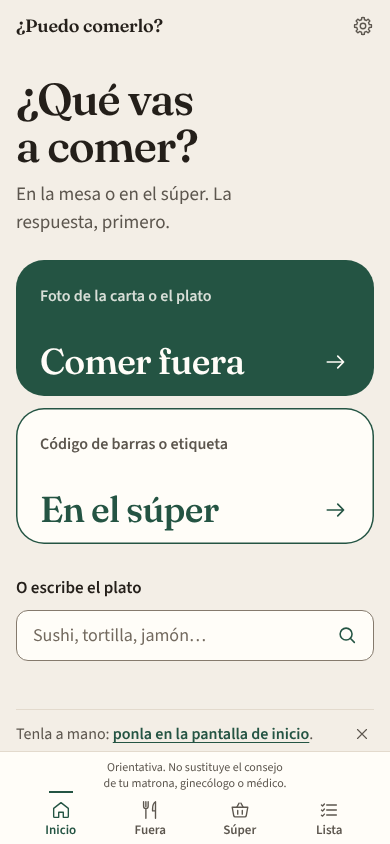
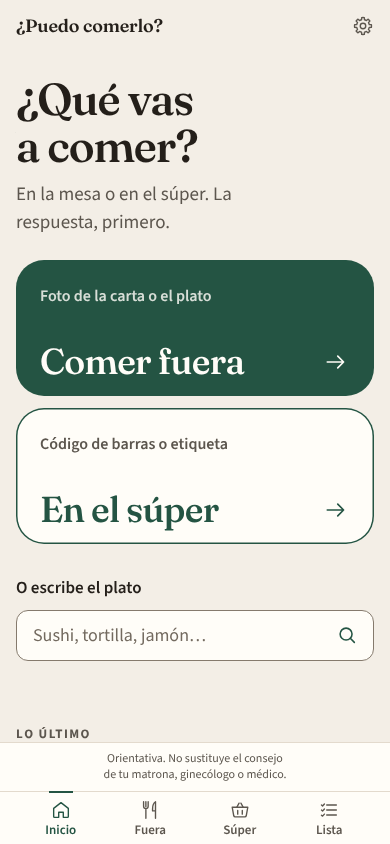
Guía de uso: sección «Los colores» y 23 capturas con el diseño de pantalla entera
Claude-Session: https://claude.ai/code/session_01LGfS7LtDgv3jjsjjTi3rbZ

Changed region(s): [[0.0308, 0.8626, 0.8, 0.955], [0.8923, 0.8626, 0.9538, 0.8934]]

diff --git a/puedo-comerlo/docs/GUIA-DE-USO.md b/puedo-comerlo/docs/GUIA-DE-USO.md
@@ -7,7 +7,7 @@ Para quien la va a usar y para quien la va a probar. Se lee en el móvil en unos
 ## Índice
 
 1. [Qué es y qué no es](#1-qué-es-y-qué-no-es)
-2. [Qué significa cada respuesta](#2-qué-significa-cada-respuesta)
+2. [Los colores](#2-los-colores)
 3. [El primer arranque](#3-el-primer-arranque)
 4. [Cómo trata la app los embutidos y los fiambres](#4-cómo-trata-la-app-los-embutidos-y-los-fiambres)
 5. [Comer fuera](#5-comer-fuera)
@@ -37,29 +37,43 @@ durante el embarazo. Primero la respuesta; el motivo, solo si lo abres.
 
 ---
 
-## 2. Qué significa cada respuesta
+## 2. Los colores
 
-Lo primero que ves es una palabra grande, con su color. Hay cuatro:
+Cuando la app te contesta sobre **un plato o un producto**, se pinta **la pantalla entera** del color de la
+respuesta, también la barra de arriba y la de abajo, y la palabra aparece grande. Hay cuatro:
 
-| Respuesta | Color | Qué quiere decir |
+| Respuesta | Color de la pantalla | Qué quiere decir |
 |---|---|---|
 | **Sí** | verde salvia | Se puede tomar, con las precauciones normales. |
-| **Con cuidado** | arcilla (teja) | Depende de cómo esté hecho. La respuesta dice qué preguntar o mirar. |
-| **Mejor no** | vino (granate) | Mejor no tomarlo en el embarazo. Si hay una alternativa, la propone. |
-| **No estoy segura** | arena | La app no lo tiene claro y no lo da por seguro. Pregunta qué lleva. |
+| **Con cuidado** | naranja terroso | Depende de cómo esté hecho. La respuesta dice qué preguntar o mirar. |
+| **Mejor no** | rojo vino | Mejor no tomarlo en el embarazo. Si hay una alternativa, la propone. |
+| **No estoy segura** | ocre | La app no lo tiene claro y no lo da por seguro. Pregunta qué lleva. |
 
-En las listas (la carta, tu lista, el historial) cada plato es una fila con una **marca de color a la
-izquierda** y la palabra pequeña encima del nombre. No hay tarjetas: solo filas.
+![Mejor no: pantalla de color vino para «sushi»](capturas/06-respuesta-mejor-no.png)
 
-**Gana el peor.** Si un plato junta varias cosas, se queda con la respuesta más prudente:
-«Mejor no» manda sobre «Con cuidado», que manda sobre «No estoy segura», que manda sobre «Sí».
-Por ejemplo, una ensalada con salmón ahumado sale «Mejor no» por el ahumado, aunque la ensalada sola
-fuera «Con cuidado».
+![Sí: pantalla verde para «lubina a la plancha»](capturas/07-respuesta-si.png)
 
-**Ver más.** Primero ves la palabra, el nombre y una frase. Si tocas **Ver más** se despliega el resto: el
-motivo, la pregunta para el camarero o lo que hay que mirar en la etiqueta, una alternativa y la fuente.
+![Con cuidado: pantalla naranja para «tortilla»](capturas/08-respuesta-con-cuidado.png)
 
-![Ficha de la tortilla de patata con «Ver más» abierto: motivo, qué preguntar, alternativa y fuente](capturas/08-ficha-ver-mas.png)
+![No estoy segura: pantalla ocre con signos de interrogación para un texto que la app no entiende](capturas/09-respuesta-no-estoy-segura.png)
+
+- **No te fíes solo del color.** Siempre hay una **palabra** grande («Sí», «Con cuidado», «Mejor no», «No
+  estoy segura») y una frase. «Con cuidado» y «No estoy segura» llevan además signos de interrogación de
+  fondo (más grandes y numerosos en «No estoy segura»), para distinguirlos de un vistazo, incluso si no
+  distingues bien los colores.
+- **Gana el peor.** Si un plato junta varias cosas, se queda con la respuesta más prudente:
+  «Mejor no» manda sobre «Con cuidado», que manda sobre «No estoy segura», que manda sobre «Sí».
+  Por ejemplo, una ensalada con salmón ahumado sale «Mejor no» por el ahumado, aunque la ensalada sola
+  fuera «Con cuidado».
+- **Las listas no se pintan enteras.** La carta, tu lista, el historial y «Lo último» van sobre fondo crema:
+  cada plato es una fila con una **banda suave del color** de su respuesta, una marca de color en el borde
+  y la palabra pequeña encima del nombre. Solo las respuestas sueltas pintan toda la pantalla.
+
+**Ver más.** Primero ves la palabra, el nombre y una frase. Si tocas **Ver más** se despliega una hoja con el
+resto: el motivo, la pregunta para el camarero o lo que hay que mirar en la etiqueta, una alternativa y la
+fuente.
+
+![Ficha de la tortilla de patata con «Ver más» abierto: motivo, qué preguntar, alternativa y fuente](capturas/10-ficha-ver-mas.png)
 
 ---
 
@@ -69,9 +83,10 @@ La primera vez que la abres te hace tres pantallas cortas, una sola vez (cuatro 
 Lo que contestes se puede cambiar después en Ajustes. Arriba verás siempre «Paso 1 de 4» y una barra de
 progreso; con **Atrás** vuelves al paso anterior.
 
-**Paso 1. Portada.** Explica qué es la app y que es orientativa. Toca **Seguir**.
+**Paso 1. Portada.** Explica qué es la app, con una mesa de platos vista desde arriba (en una esquina, una servilleta con una
+silueta bordada de embarazada). Toca **Seguir**; debajo del botón está el aviso de que es orientativa.
 
-![Portada del arranque: título, aviso de que es orientativa y el botón Seguir](capturas/01-arranque-portada.png)
+![Portada del arranque: título, la mesa con doce platos y el botón Seguir](capturas/01-arranque-portada.png)
 
 **Paso 2. Alergias e intolerancias.** Opcional: leche, huevo, gluten, frutos secos, pescado, marisco, soja y
 sésamo. Debajo hay un campo corto (hasta 200 letras) para **otra cosa que no quieras comer**, por ejemplo
@@ -80,7 +95,7 @@ sésamo. Debajo hay un campo corto (hasta 200 letras) para **otra cosa que no qu
 ![Paso 2: alergias e intolerancias, con frutos secos marcado, y el campo «Otra cosa que no quieras comer»](capturas/02-arranque-alergias.png)
 
 **Paso 3. Dietas y restricciones.** Opcional y se pueden marcar varias: vegetariana, vegana, sin cerdo, sin
-lactosa (intolerancia). **No cambia el color**; solo añade una nota en la respuesta, como «No encaja con
+lactosa (intolerancia). **No cambia la respuesta ni su color**; solo añade una nota en la respuesta, como «No encaja con
 vegana» o «Lleva cerdo».
 
 ![Paso 3: dietas y restricciones](capturas/03-arranque-dietas.png)
@@ -92,8 +107,9 @@ semáforo lo calculan reglas fijas. Toca **Empezar**.
 ![Paso 4: tu privacidad y el botón Empezar](capturas/04-arranque-privacidad.png)
 
 Llegas a **Inicio**: «¿Qué vas a comer?». Hay dos accesos grandes, **Comer fuera** y **En el súper**, y
-debajo un campo para escribir el plato directamente. Un aviso discreto te ofrece ponerla en la pantalla de
-inicio del móvil; lo puedes cerrar con la «x».
+debajo un campo para escribir el plato directamente. Más abajo, «Lo último» (vacío al principio, con un plato
+dibujado) y un aviso discreto que te ofrece ponerla en la pantalla de inicio del móvil; lo puedes cerrar con
+la «x».
 
 ![Inicio: «¿Qué vas a comer?», con Comer fuera, En el súper y el campo para escribir el plato](capturas/05-inicio.png)
 
@@ -126,7 +142,7 @@ Si tu matrona o tu médico te han dicho algo distinto para tu caso, haz lo que e
 
 En **Fuera** (o «Comer fuera» desde Inicio) tienes tres maneras de preguntar:
 
-![Pantalla Comer fuera: Hacer una foto, Elegir una foto, Buscar un plato y atajos](capturas/09-comer-fuera.png)
+![Pantalla Comer fuera: Hacer una foto, Elegir una foto, Buscar un plato y atajos](capturas/11-comer-fuera.png)
 
 **Hacer una foto.** Abre la cámara de atrás. Encuadra la carta, con buena luz, y toca **Hacer la foto**.
 Verás la foto congelada: si se lee bien, toca **Usar esta foto**; si no, **Repetir**. La primera vez, el
@@ -136,24 +152,28 @@ ofrece elegir una foto de la galería.
 **Elegir una foto.** Para una foto que ya tengas en el móvil (por ejemplo, la carta que te han mandado
 por WhatsApp).
 
-**Quién lee la foto.** Cuando está activa la lectura con Claude (el modelo Sonnet 5.5), la foto se lee con
-él: es lo más fino. Si no está activa, o se ha pasado el límite de fotos, la foto se lee en el propio móvil.
-Es más lenta (unos segundos más) y menos fina, y la app te lo avisa con «He leído la carta de forma
-aproximada».
+**Quién lee la foto.** La lee Claude (el modelo Sonnet 5.5): tarda unos 4 segundos y es lo más fino. Solo si
+no puede (por ejemplo, si te has pasado del límite de fotos o falla la conexión con él), la foto se lee en
+el propio móvil. Entonces tarda unos segundos más, es menos fina y la app te lo avisa con «He leído la
+carta de forma aproximada» (más abajo).
 
-Mientras lee, verás la foto y un mensaje:
+Mientras lee, verás la foto y un plato con tenedor y cuchillo que gira, con un mensaje («Leyendo la carta…»):
 
-![Leyendo la carta: la foto y el mensaje de progreso](capturas/10-carta-leyendo.png)
+![Leyendo la carta: la foto, el plato que gira y el mensaje de progreso](capturas/12-carta-leyendo.png)
 
 Después sale **«La carta»**: cuántos platos ha leído (hasta 12), un resumen por colores y una fila por plato.
 Toca **Ver más** en el que te interese. Abajo del todo, **Hacer otra foto**.
 
-![Resultado de la carta: «12 platos leídos», el resumen por colores, el aviso de lectura aproximada y las primeras filas](capturas/11-carta-resultado.png)
+![Resultado de la carta: «12 platos leídos», el resumen por colores y las primeras filas con su banda de color](capturas/13-carta-resultado.png)
 
-![Más platos de la misma carta: tortilla, lubina, sushi y entrecot poco hecho](capturas/11b-carta-resultado-mas.png)
+![Más platos de la misma carta: tortilla, lubina, sushi y entrecot poco hecho](capturas/13b-carta-resultado-mas.png)
 
-**El aviso «He leído la carta de forma aproximada. Revisa los nombres.»** Sale cuando la foto se ha leído en
-el propio móvil. En ese caso:
+*Estas capturas se hicieron sin la lectura de Claude, con el lector del propio móvil: por eso salen el aviso
+de lectura aproximada y varios «No estoy segura». En tu móvil, con Claude, la lectura sale más limpia: sin
+aviso y con los nombres de los platos mejor leídos.*
+
+**El aviso «He leído la carta de forma aproximada. Revisa los nombres.»** Solo sale cuando la foto se ha
+leído en el propio móvil (no cuando la lee Claude). En ese caso:
 
 - Revisa que los nombres de los platos estén bien escritos.
 - Ningún plato sale «Sí» a secas: lo que habría sido «Sí» baja a **«No estoy segura»**, con la frase
@@ -166,17 +186,13 @@ el propio móvil. En ese caso:
 el plato.» Prueba otra foto más cerca y con más luz, o escríbelo.
 
 **Buscar un plato.** Con **Buscar un plato**, o escribiendo en Inicio en «O escribe el plato», sale una
-pantalla con el campo y **solo la respuesta**: la palabra grande, el nombre, una frase, **Añadir a la
-lista** y **Ver más**. Escribe el plato como lo dirías: «sushi», «tortilla», «pizza de jamón york»,
-«lentejas con chorizo»… No hace falta poner tildes. La respuesta se va actualizando mientras escribes.
+pantalla con el campo y **solo la respuesta**, con la pantalla del color de la respuesta: la palabra grande, el nombre, una frase,
+**Añadir a la lista** y **Ver más**. Escribe el plato como lo dirías: «sushi», «tortilla», «pizza de jamón york»,
+«lentejas con chorizo»… No hace falta poner tildes. La respuesta (y el color) se van actualizando mientras escribes.
 Cuando la respuesta sale de un único alimento conocido, aparece también **Ver la ficha**.
 
 Si escribes algo que la app no entiende, sale **«No estoy segura»**, y en **Ver más** te dice qué
 preguntar (si lleva huevo crudo, embutido, queso sin pasteurizar, alcohol o pescado sin hacer).
-
-![Respuesta para «sushi»: Mejor no](capturas/06-respuesta-sushi.png)
-
-![Respuesta para «pizza de jamón york»: Sí, porque va horneada](capturas/07-respuesta-pizza-jamon-york.png)
 
 **Atajos.** Debajo de los botones hay una lista de texto con lo más habitual: jamón curado, pescado crudo,
 tortilla, ensalada César, ensaladilla, tarta de queso, gazpacho, mayonesa casera, queso blando y paella.
@@ -188,7 +204,7 @@ Tocas uno y se abre su ficha, con su respuesta. También salen en Buscar cuando 
 
 En **Súper** (o «En el súper» desde Inicio):
 
-![Pantalla En el súper: escanear, escribir el código, fotografiar la etiqueta y atajos](capturas/12-super.png)
+![Pantalla En el súper: escanear, escribir el código, fotografiar la etiqueta y atajos](capturas/14-super.png)
 
 **Escanear el código.** Abre la cámara; apunta al código de barras y lo lee solo. La app lo busca en
 **Open Food Facts**, una base de datos abierta de productos.
@@ -196,17 +212,17 @@ En **Súper** (o «En el súper» desde Inicio):
 **Escribir el código.** Si la cámara no lo coge, teclea los números de debajo de las barras (de 8 a 14
 cifras) y toca **Consultar**.
 
-Sale el producto con su código, la palabra grande, su nombre y la frase. En **Ver más** verás los
+Sale el producto, con la pantalla del color de su respuesta: el código, la palabra grande, su nombre y la frase. En **Ver más** verás los
 ingredientes que figuran en Open Food Facts.
 
-![Producto encontrado por código: Nutella, «Mejor no» porque se marcó frutos secos](capturas/13-super-producto.png)
+![Producto encontrado por código: Nutella, «Mejor no» porque se marcó frutos secos](capturas/15-super-producto.png)
 
-![El mismo producto con «Ver más» abierto: motivo e ingredientes leídos](capturas/13b-super-producto-ver-mas.png)
+![El mismo producto con «Ver más» abierto: motivo e ingredientes leídos](capturas/15b-super-producto-ver-mas.png)
 
 **Si no está en Open Food Facts**, te lo dice («No está en Open Food Facts. Haz una foto de los
 ingredientes.») y te ofrece **Fotografiar la etiqueta**. Haz la foto de la lista de ingredientes, no del
 frente del paquete. Si el producto no tiene código, usa **«¿Sin código? Fotografía la etiqueta»**. La foto
-de la etiqueta se lee igual que la de la carta (con Claude o, si no, en el propio móvil con el aviso de
+de la etiqueta se lee igual que la de la carta (con Claude o, si no puede, en el propio móvil con el aviso de
 lectura aproximada).
 
 **Cómo se aplican tus alergias:**
@@ -225,21 +241,26 @@ lectura aproximada).
 
 ## 7. Lista, favoritos e historial
 
-**Lista.** Para guardar lo que te interesa: en una respuesta, toca **Añadir a la lista**; en una fila de la
+**Lista.** Al principio está vacía, con un plato dibujado y «Todavía no hay nada…».
+
+![Lista vacía, con un plato de ensalada dibujado](capturas/16-lista-vacia.png)
+
+Para guardar lo que te interesa: en una respuesta, toca **Añadir a la lista**; en una fila de la
 carta, abre **Ver más** y toca **Añadir a la lista**. En la pestaña **Lista** lo verás todo con su color,
 recalculado con tus ajustes de ahora (si mañana marcas una alergia, la lista se pone al día). **Quitar** lo
 borra de la lista.
 
-![Lista con un producto y la tortilla de patata, y debajo Favoritos](capturas/14-lista.png)
+![Lista con un producto y la tortilla de patata, y debajo Favoritos](capturas/17-lista.png)
 
 **Favoritos.** En la ficha de un alimento (por ejemplo, al tocar un atajo), **Guardar en favoritos**.
 Aparecen debajo de la lista.
 
 **Historial.** Guarda tus últimas 40 consultas (búsquedas, fotos, códigos y fichas abiertas). En Inicio
 verás las tres últimas en **«Lo último»**; el historial completo, en **Ver el historial** (en Inicio o
-en Ajustes). Desde ahí puedes **Borrar el historial** sin tocar la lista ni los favoritos.
+en Ajustes). Desde ahí puedes **Borrar el historial** sin tocar la lista ni los favoritos. El historial vacío también
+lleva un plato dibujado.
 
-![Inicio con «Lo último»: las tres últimas consultas](capturas/15-inicio-lo-ultimo.png)
+![Inicio con «Lo último»: las tres últimas consultas](capturas/18-inicio-lo-ultimo.png)
 
 Todo esto se queda en tu móvil y sigue ahí aunque cierres o recargues la app.
 
@@ -249,7 +270,7 @@ Todo esto se queda en tu móvil y sigue ahí aunque cierres o recargues la app.
 
 Toca la **ruedecita** de arriba a la derecha.
 
-![Ajustes: alergias, otra cosa que no quieras comer y dietas](capturas/16-ajustes.png)
+![Ajustes: alergias, otra cosa que no quieras comer y dietas](capturas/19-ajustes.png)
 
 - **Cambiar tus decisiones.** Arriba está todo lo del arranque: alergias, otra cosa que no quieras comer y
   dietas y restricciones. Cambia lo que quieras y toca **Guardar**. Verás «Guardado. Las respuestas ya usan
@@ -261,7 +282,7 @@ Toca la **ruedecita** de arriba a la derecha.
   historial. Te pide confirmación (**Borrar todo**), no se puede deshacer y vuelves al arranque, como el
   primer día.
 
-![Final de Ajustes: Historial, En la pantalla de inicio y Tus datos](capturas/16b-ajustes-final.png)
+![Final de Ajustes: Historial, En la pantalla de inicio y Tus datos](capturas/19b-ajustes-final.png)
 
 ---
 
@@ -290,7 +311,7 @@ la app, en **Ajustes → Instalar en el móvil**, con tu tipo de móvil primero 
 
 En algunos Android la pantalla de Instalar muestra directamente un botón **Instalar**: basta con tocarlo.
 
-![Pantalla Instalar en el móvil en un Android: los pasos de Chrome y la etiqueta «Tu móvil»](capturas/17-instalar.png)
+![Pantalla Instalar en el móvil en un Android: los pasos de Chrome y la etiqueta «Tu móvil»](capturas/20-instalar.png)
 
 Una vez instalada, **sigue necesitando internet** para abrirse, igual que en el navegador.
 
@@ -304,8 +325,8 @@ Una vez instalada, **sigue necesitando internet** para abrirse, igual que en el 
   móvil.
 - **No te pide datos de salud.** Ni semana de embarazo, ni fecha de parto, ni analíticas.
 - **La foto solo se lee.** Cuando haces una foto de una carta o de una etiqueta, se usa únicamente para
-  sacar el texto (los nombres de los platos y los ingredientes) y **no se guarda**. Si la lectura con
-  Claude está activa, la foto viaja para que él la lea; si no, se lee en el propio móvil y no sale de él.
+  sacar el texto (los nombres de los platos y los ingredientes) y **no se guarda**. La foto viaja a Claude
+  para que la lea; solo si no puede, se lee en el propio móvil y no sale de él.
   Quien la lee no decide nada: solo copia lo que ve.
 - **El semáforo lo calculan reglas fijas** que van dentro de la app, en tu móvil, a partir de ese texto
   y de tus ajustes. La misma pregunta con los mismos ajustes da siempre la misma respuesta.
@@ -328,25 +349,25 @@ cualquier cosa que te extrañe y en qué paso.
    - *Deberías ver:* «¿Qué vas a comer?». En ningún paso te ha pedido semana, fecha ni analíticas, ni te ha
      preguntado por embutidos.
 2. **Sushi.** En «O escribe el plato», escribe `sushi` y toca la lupa.
-   - *Deberías ver:* **Mejor no** (granate), «Crudo, mejor no: puede llevar listeria y anisakis.»
+   - *Deberías ver:* **Mejor no**, con la pantalla entera de color vino, «Crudo, mejor no: puede llevar listeria y anisakis.»
 3. **Tortilla.** Vuelve a Inicio y escribe `tortilla`.
-   - *Deberías ver:* **Con cuidado** (teja), «Solo si está cuajada hasta el centro.» Toca **Ver más**:
+   - *Deberías ver:* **Con cuidado**, con la pantalla naranja y signos de interrogación de fondo, «Solo si está cuajada hasta el centro.» Toca **Ver más**:
      sale qué preguntar, una alternativa y «Fuente: AESAN».
 4. **Pizza de jamón york.** Escribe `pizza de jamón york`.
-   - *Deberías ver:* **Sí** (verde), «Va horneada, y el horno cocina lo que lleva encima.»
+   - *Deberías ver:* **Sí**, con la pantalla verde, «Va horneada, y el horno cocina lo que lleva encima.»
    - (Si escribes solo `jamón york`, sale **Mejor no**: en frío, de bandeja.)
 5. **Jamón serrano.** Escribe `jamón serrano`.
    - *Deberías ver:* **Mejor no**, «Curado y sin cocinar, mejor no: AESAN lo señala por toxoplasmosis.»
 6. **Foto de una carta.** Ve a **Fuera** → **Hacer una foto** (o **Elegir una foto** si la tienes en la
    galería). Dale permiso a la cámara si te lo pide.
-   - *Deberías ver:* unos segundos de «Leyendo…» y luego «La carta», con una fila de color por plato.
-     Si sale el aviso «He leído la carta de forma aproximada», es normal: revisa que los nombres estén
-     bien. Si no se puede leer, debe decir «No he podido leer la carta. Acércala, o escribe el plato.»,
+   - *Deberías ver:* unos segundos (unos 4) de «Leyendo la carta…» con un plato que gira, y luego «La carta»,
+     con una fila de color por plato. Si sale el aviso «He leído la carta de forma aproximada», quiere decir
+     que se ha leído en el propio móvil: es normal, pero cuéntanoslo y revisa que los nombres estén bien. Si no se puede leer, debe decir «No he podido leer la carta. Acércala, o escribe el plato.»,
      sin inventarse platos.
 7. **Código de barras.** Ve a **Súper** → **Escanear el código** y apunta al código de algo de la
    despensa (o escribe los números y toca **Consultar**; si no tienes nada a mano, prueba con
    `3017620422003`).
-   - *Deberías ver:* el código, una palabra de color y el nombre del producto. Si no está en Open Food
+   - *Deberías ver:* la pantalla del color de la respuesta, con el código, la palabra y el nombre del producto. Si no está en Open Food
      Facts, debe decírtelo y ofrecerte **Fotografiar la etiqueta**: prueba con la lista de ingredientes.
 8. **Lista y recarga.** Vuelve a buscar `tortilla` y toca **Añadir a la lista**. Ve a **Lista**.
    - *Deberías ver:* «Tortilla», «Con cuidado».
@@ -356,7 +377,7 @@ cualquier cosa que te extrañe y en qué paso.
 **Extra, si te sobra un minuto:** en Ajustes marca la alergia **Huevo** → **Guardar**, y vuelve a la
 Lista. La tortilla debería pasar a **Mejor no** con «Has marcado huevo.»
 
-Cuando acabes, cuéntanos: qué te ha resultado confuso, si algún color te ha sorprendido (y con qué plato
+Cuando acabes, cuéntanos: qué te ha resultado confuso, si algún color o signo de interrogación te ha sorprendido (y con qué plato
 o producto), y si se te ha tapado algo en la pantalla.
 
 ---
@@ -388,7 +409,7 @@ copia, porque no se guarda en ningún otro sitio. La próxima vez que la abras, 
 mismo ocurre si usas **Borrar los datos de este móvil** en Ajustes.
 
 **¿Cuántas fotos puedo hacer?**
-Hasta **20 fotos cada 10 minutos** con la lectura de Claude. Si te pasas, la app no se rompe: lee la foto
+Hasta **20 fotos cada 10 minutos**. Si te pasas, la app no se rompe: lee la foto
 con el lector del propio móvil, que es más lento y menos fino (verás el aviso de lectura aproximada).
 Buscar un plato, escanear un código o abrir una ficha no cuenta.
 
